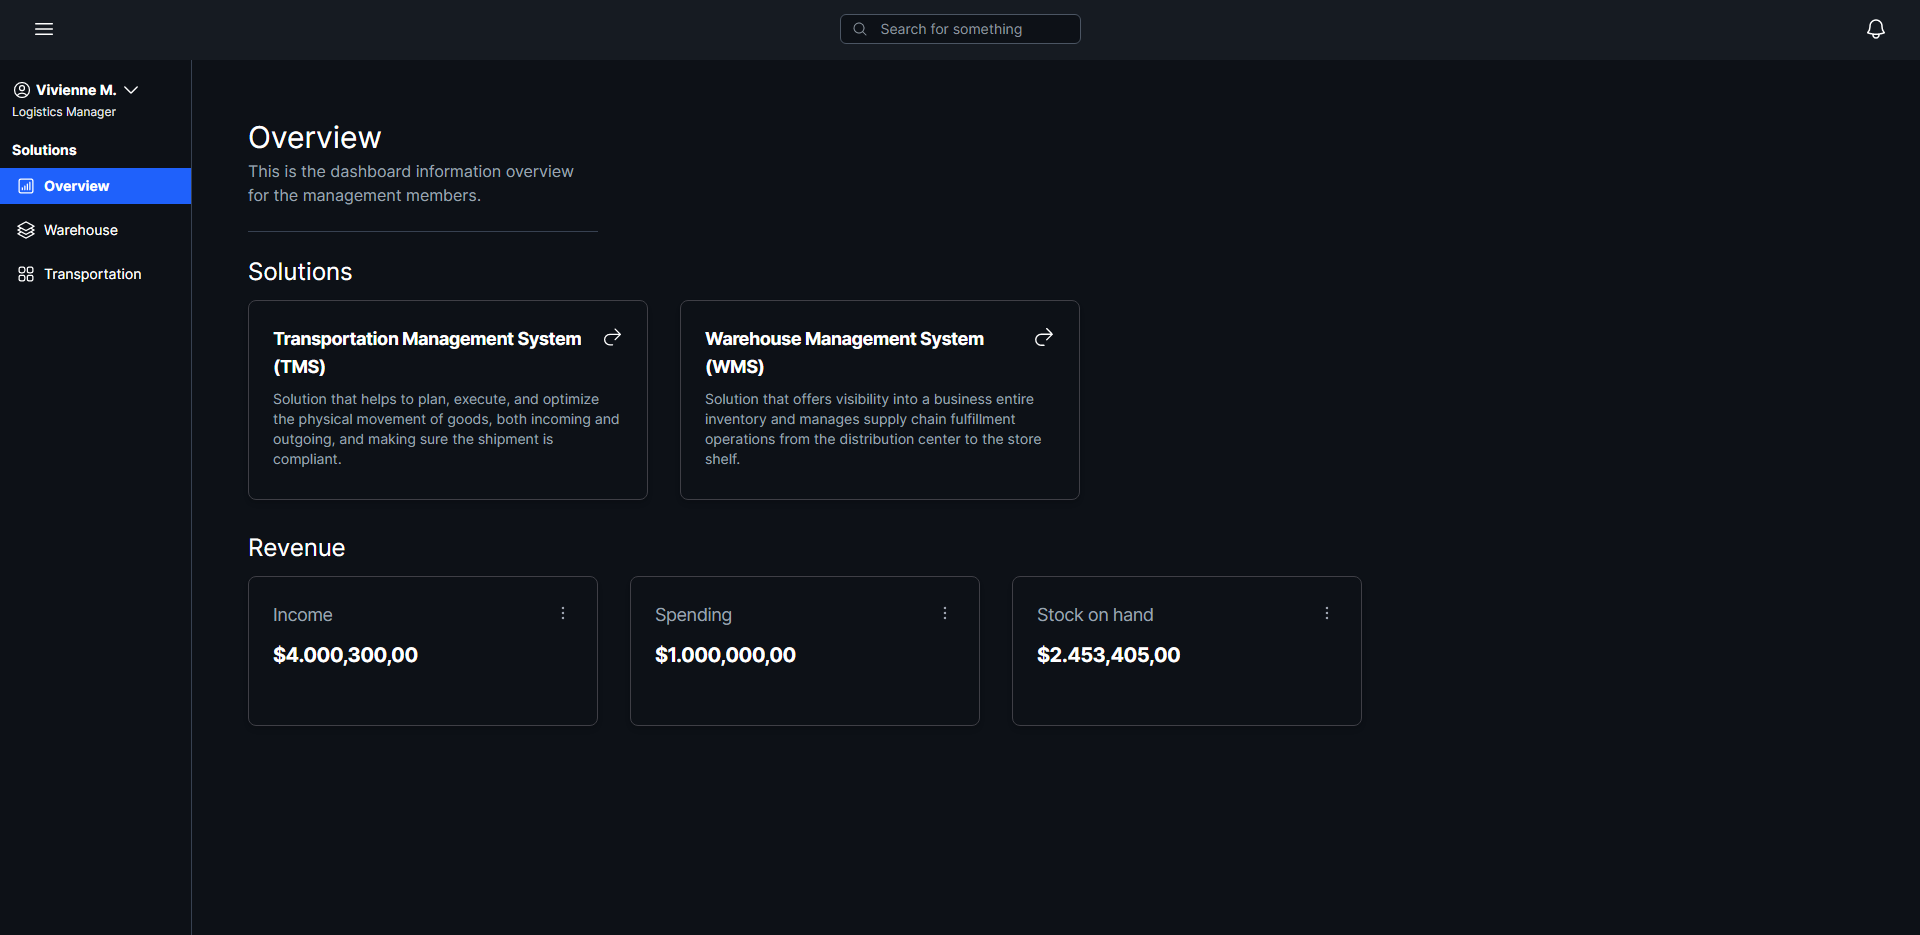
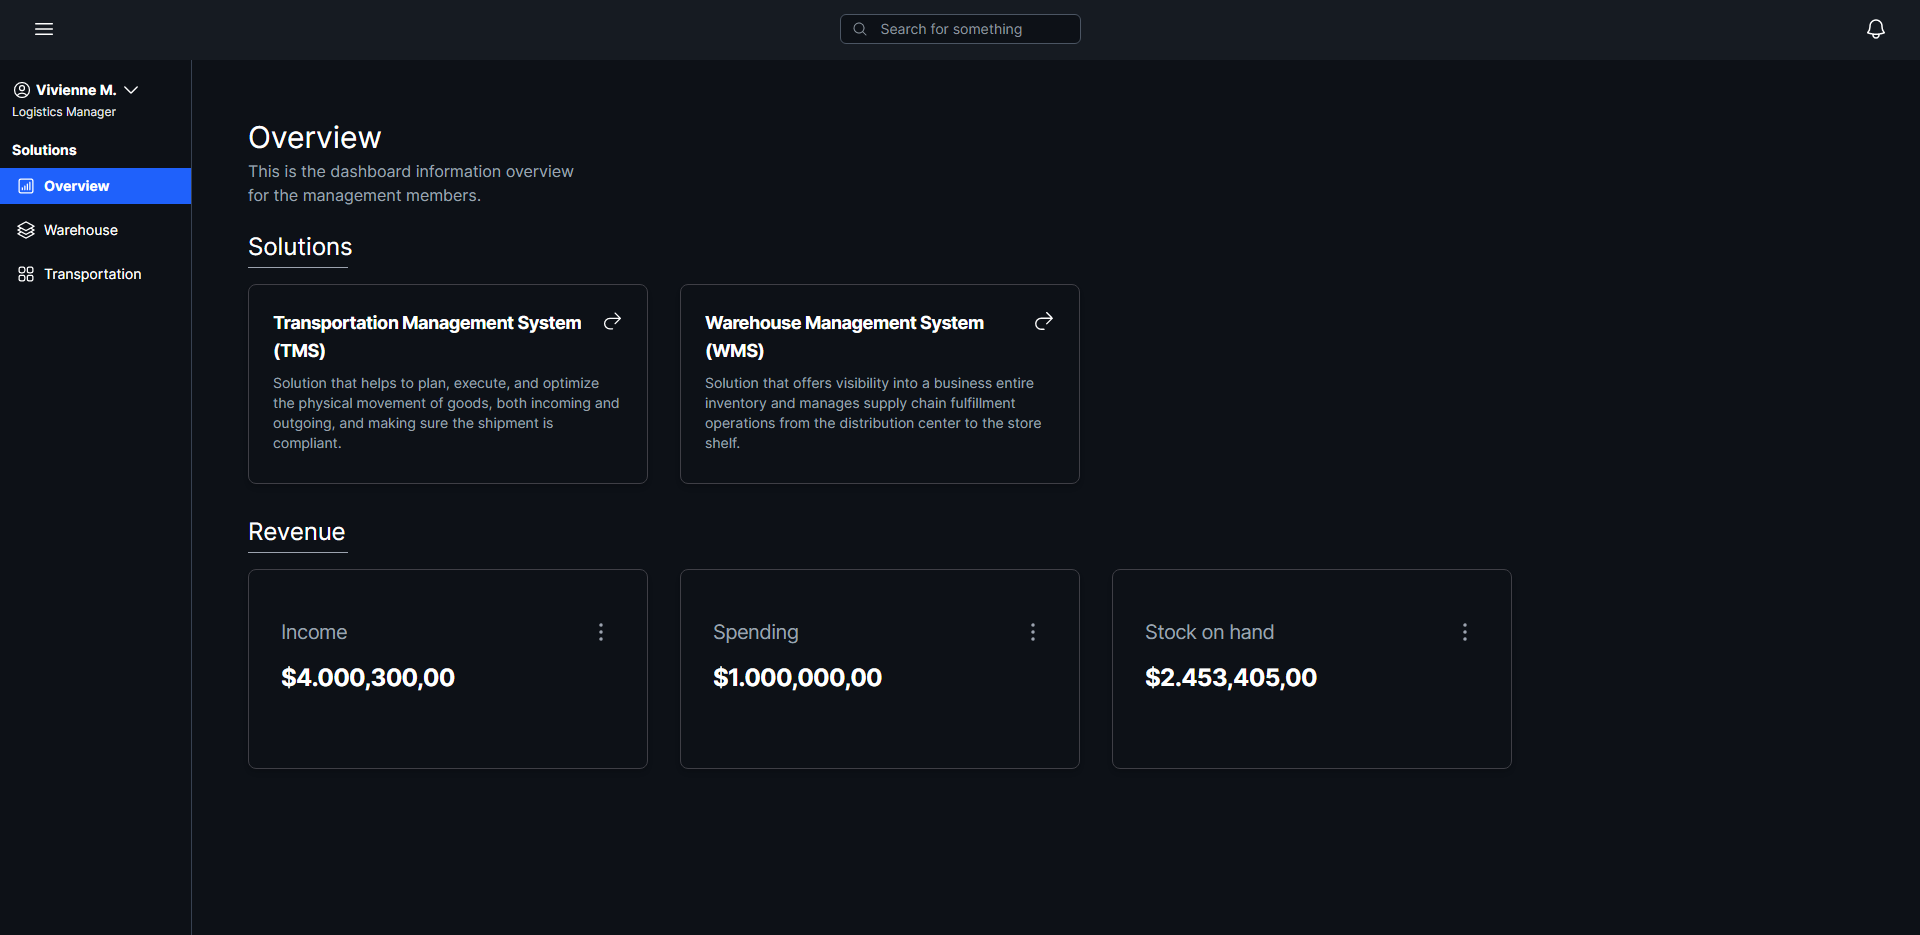
Updating overview image

diff --git a/client/pages/index.tsx b/client/pages/index.tsx
@@ -34,7 +34,7 @@ export default function Home() {
 
       <main className="h-screen w-screen pt-[65px] pl-48 text-white">
         <div className="max-w-screen max-h-screen px-14 py-8">
-          <div className="mt-6 flex flex-col">
+          <div className="my-6 flex flex-col">
             <div className="flex items-center gap-2">
               <h1 className="mb-1 text-3xl">Overview</h1>
             </div>
@@ -45,11 +45,10 @@ export default function Home() {
             </p>
           </div>
 
-          <div className="my-6 h-[1px] w-[350px] bg-gray-700"></div>
-
           <div className="flex flex-col gap-8">
             <div>
-              <h1 className="pb-[12px] text-2xl">Solutions</h1>
+              <h1 className="pb-1 text-2xl">Solutions</h1>
+              <div className="mb-4 h-[1px] w-[100px] bg-gray-400"></div>
               <div className="flex gap-8">
                 <Link
                   href="/tms/deliveries"
@@ -86,21 +85,28 @@ export default function Home() {
               </div>
             </div>
             <div className="flex flex-col">
-              <h1 className="pb-[12px] text-2xl">Revenue</h1>
+              <h1 className="pb-1 text-2xl">Revenue</h1>
+              <div className="mb-4 h-[1px] w-[100px] bg-gray-400"></div>
               <div className="flex gap-8 bg-[#0d1117]">
                 {Object.keys(stats).map((key) => {
                   const stat = stats[key as keyof typeof stats];
                   return (
-                    <div className="block h-[150px] w-[350px] rounded-lg border border-zinc-700 bg-[#0d1117] p-6 shadow-md hover:shadow-md">
+                    <div
+                      className="block h-[200px] w-[400px] rounded-lg border border-zinc-700 bg-[#0d1117] px-8 py-12 shadow-md hover:shadow-md"
+                      key={stat.value}
+                    >
                       <div key={stat.title}>
-                        <h1 className="flex justify-between pb-3 text-lg tracking-tight text-gray-400">
+                        <h1
+                          className="flex justify-between text-xl tracking-tight text-gray-400"
+                          key={stat.title}
+                        >
                           {stat.title}
-                          <EllipsisVerticalIcon className="h-6 w-5 cursor-pointer text-gray-400" />
+                          <EllipsisVerticalIcon className="h-7 w-7 cursor-pointer text-gray-400" />
                         </h1>
                       </div>
                       <div>
                         <h1
-                          className="text-xl font-bold tracking-tight text-white"
+                          className="pt-4 text-2xl font-bold tracking-tight text-white"
                           key={stat.value}
                         >
                           {stat.value}
@@ -110,7 +116,7 @@ export default function Home() {
                   );
                 })}
               </div>
-            </div>
+            </div>{" "}
           </div>
         </div>
       </main>

diff --git a/client/pages/wms/inventory.tsx b/client/pages/wms/inventory.tsx
@@ -126,7 +126,7 @@ export default function Warehouse(props: CountProps) {
                     htmlFor="category"
                     className="text-sm font-semibold text-white"
                   >
-                    Categoru
+                    Category
                   </label>
                   <Input
                     type="text"
@@ -226,6 +226,8 @@ export default function Warehouse(props: CountProps) {
   function deleteDialog() {
     return deleteDialogOpen ? (
       <AlertDialog.Portal>
+        <AlertDialog.Overlay />
+
         <AlertDialog.Content className="fixed bottom-0 right-0 mb-8 mr-8 flex h-[50px] w-[260px] translate-y-0 items-center justify-between rounded-lg border border-zinc-700 bg-white py-4 px-4 text-black shadow-lg shadow-black/25 transition-all duration-1000 ease-in-out ">
           <AlertDialog.Title className="text-sm">
             The product was deleted.
